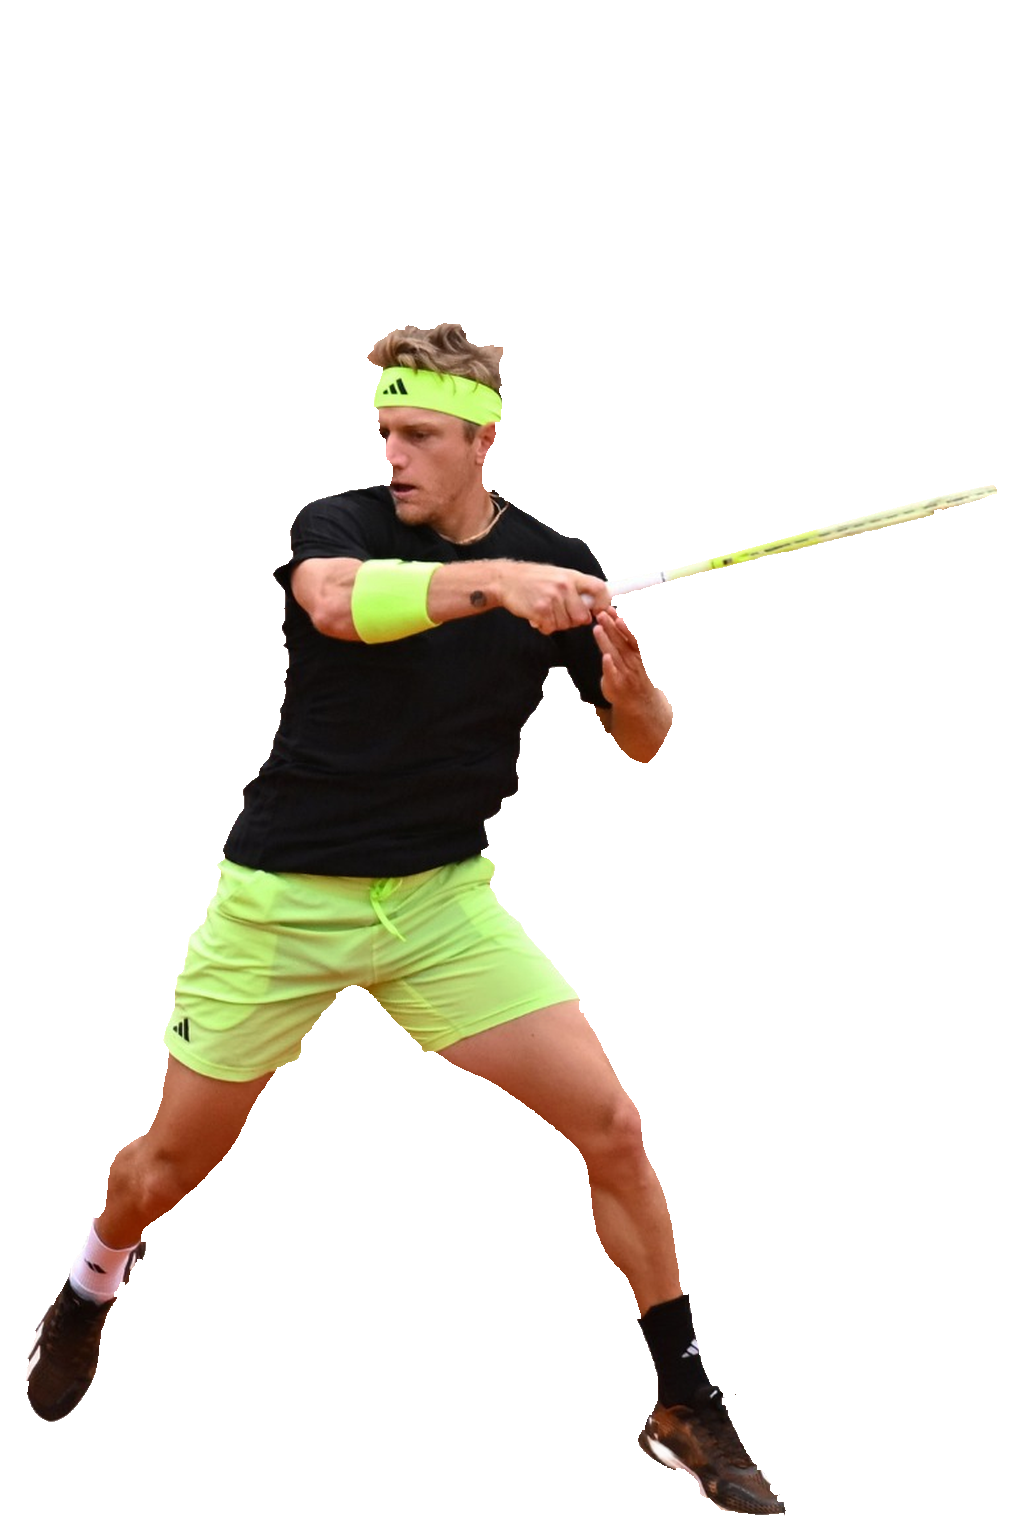
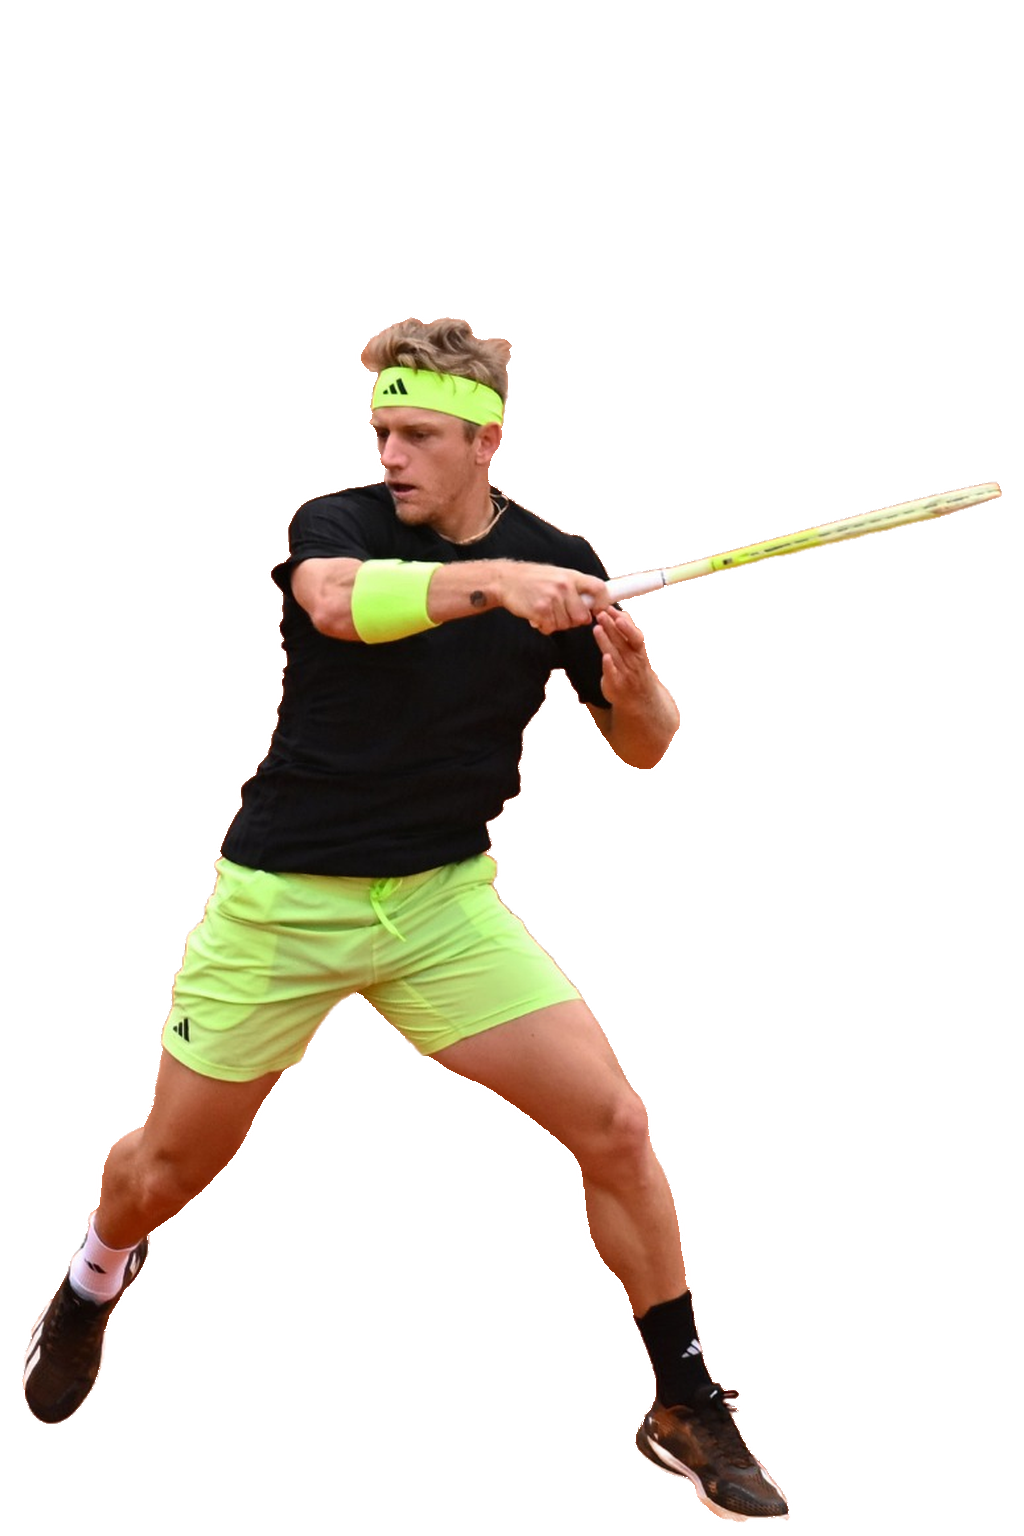
Refresh Paris fixtures and restore real player photo cutouts

diff --git a/app/MatchDashboard.tsx b/app/MatchDashboard.tsx
@@ -619,7 +619,7 @@ function PlayerPortrait({id,name,side}:{id:number|null;name:string;side:"left"|"
   const shouldMirror=homeSide!=null&&homeSide!==side;
   const sources=[
     ...(top20Slug?[`/players/cutouts/top20/${top20Slug}.png${top20Slug==="rafael-jodar"?"?v=action-oct25":top20Slug==="casper-ruud"?"?v=real-photo-nov2":""}`]:[]),
-    ...(top40Slug?[`/players/cutouts/top40/${top40Slug}.png${top40Slug==="francisco-cerundolo"?"?v=real-photo-oct19":["alejandro-davidovich-fokina","quentin-halys","stefanos-tsitsipas"].includes(top40Slug)?"?v=real-photo-nov2b":["luciano-darderi","tomas-machac","matteo-berrettini","andrey-rublev"].includes(top40Slug)?"?v=real-photo-nov2":""}`]:[]),
+    ...(top40Slug?[`/players/cutouts/top40/${top40Slug}.png${top40Slug==="francisco-cerundolo"?"?v=real-photo-oct19":["alejandro-davidovich-fokina","quentin-halys","stefanos-tsitsipas"].includes(top40Slug)?"?v=real-photo-nov2c":["luciano-darderi","tomas-machac","matteo-berrettini","andrey-rublev"].includes(top40Slug)?"?v=real-photo-nov2":""}`]:[]),
     ...(top60Slug?[`/players/cutouts/top60/${top60Slug}.png${top60Slug==="daniel-merida-aguilar"?"?v=real-photo-nov2b":""}`]:[]),
     ...(top80Slug?[`/players/cutouts/top80/${top80Slug}.png?v=griekspoor2`]:[]),
     ...(top100Slug?[`/players/cutouts/top100/${top100Slug}.png?v=top100-5`]:[]),

diff --git a/scripts/extract_real_photo_cutouts.py b/scripts/extract_real_photo_cutouts.py
@@ -27,7 +27,7 @@ PHOTOS = {
     "quentin-halys": ("top40_references/quentin-halys.jpg", "top40"),
     "matteo-berrettini": ("top40_references/matteo-berrettini.jpg", "top40"),
     "andrey-rublev": ("top40_references/rublev-usopen-03.jpg", "top40"),
-    "stefanos-tsitsipas": ("top40_references/stefanos-tsitsipas-indianwells2025.jpg", "top40"),
+    "stefanos-tsitsipas": ("top40_references/stefanos-tsitsipas-rome2023-proxy.jpg", "top40"),
 }
 
 
@@ -39,7 +39,11 @@ def extract(source: Path, session: object) -> Image.Image:
     alpha = segmented.getchannel("A")
     if alpha.getbbox() is None:
         raise ValueError(f"Empty segmentation: {source}")
-    alpha_array = np.asarray(alpha)
+    alpha_array = np.asarray(alpha).copy()
+    if source.name == "stefanos-tsitsipas-rome2023-proxy.jpg":
+        # The automated mask also selects a court line behind his left side.
+        # This rectangle contains no part of the photographed player or racket.
+        alpha_array[330:365, :720] = 0
     labels, count = ndimage.label(alpha_array > 128, structure=np.ones((3, 3)))
     if count:
         sizes = np.bincount(labels.ravel())
@@ -70,7 +74,7 @@ def normalize(image: Image.Image) -> Image.Image:
 
 
 def clean_clay_fringe(image: Image.Image) -> Image.Image:
-    """Drop clay-coloured antialias pixels at the cutout edge, without repainting."""
+    """Remove only obvious clay-coloured spill; keep the photographed limbs intact."""
     pixels = np.asarray(image).copy()
     alpha = pixels[:, :, 3]
     edge_depth = ndimage.distance_transform_edt(alpha > 0)
@@ -79,15 +83,12 @@ def clean_clay_fringe(image: Image.Image) -> Image.Image:
     blue = pixels[:, :, 2].astype(np.float32)
     clay_spill = (
         (alpha > 0)
-        & (edge_depth <= 8)
-        & (red > 110)
-        & (red > green * 1.3)
-        & (green > blue * 1.05)
+        & (edge_depth <= 4)
+        & (red > 120)
+        & (red > green * 1.7)
+        & (green > blue * 1.15)
     )
     pixels[:, :, 3][clay_spill] = 0
-    # A narrow second trim removes source-photo colour bleeding that survives
-    # the hue check (notably around dark shoes and the racket frame).
-    pixels[:, :, 3] = ndimage.grey_erosion(pixels[:, :, 3], size=(5, 5))
     return Image.fromarray(pixels, "RGBA")
 
 

diff --git a/public/players/PHOTO_CREDITS.md b/public/players/PHOTO_CREDITS.md
@@ -35,5 +35,5 @@ These nine portraits were rebuilt using alpha extraction from the **original pho
 | `cutouts/top40/matteo-berrettini.png` | Archived real match photo `assets/player_sources/top40_references/matteo-berrettini.jpg` | Source attribution not yet verified. |
 | `cutouts/top40/tomas-machac.png` | [Miami Open action photograph](https://www.sportskeeda.com/tennis/miami-open-2024-jannik-sinner-vs-tomas-machac-preview-head-to-head-prediction-pick) | Sportskeeda / original photographer not confirmed; reuse terms not stated. |
 | `cutouts/top40/andrey-rublev.png` | [2023 US Open action photograph 03](https://commons.wikimedia.org/wiki/File:Andrey_Rublev_(2023_US_Open)_03.jpg) | Hameltion, [CC BY-SA 4.0](https://creativecommons.org/licenses/by-sa/4.0/). |
-| `cutouts/top40/stefanos-tsitsipas.png` | [2025 Indian Wells action photograph](https://www.sportskeeda.com/tennis/indian-wells-2025-stefanos-tsitsipas-vs-holger-rune-preview-head-to-head-prediction-odds-pick-bnp-paribas-open) | Sportskeeda / original photographer not confirmed; reuse terms not stated. |
+| `cutouts/top40/stefanos-tsitsipas.png` | [2023 Rome action photograph](https://www.atptour.com/-/media/images/news/2023/05/13/19/40/tsitsipas-rome-2023-saturday.jpg) | ATP Tour / original photographer not confirmed; reuse terms not stated. |
 | `cutouts/top60/daniel-merida-aguilar.png` | [Eurosport action photograph](https://www.eurosport.es/tenis/atp-indian-wells/2026/live-daniel-merida-alex-michelsen_mtc20002103/live-commentary.shtml) | Eurosport / original photographer not confirmed; reuse terms not stated. |
